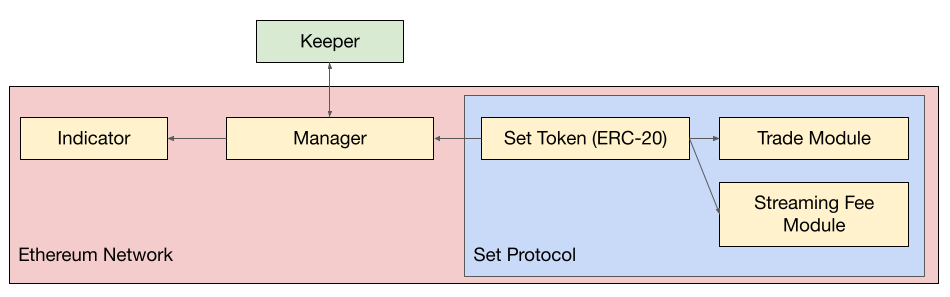
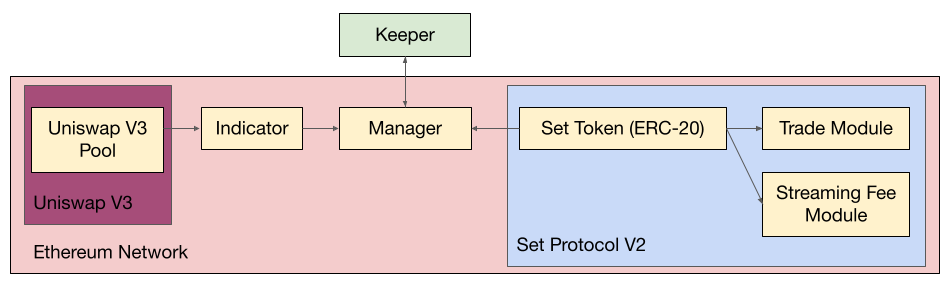
add univ3 oracle to diagram, edit getter function names

Changed region(s): [[0.0, 0.0312, 1.0, 0.9688], [0.0, 0.8125, 0.2139, 0.9062]]

diff --git a/README.md b/README.md
@@ -1,6 +1,6 @@
 # Multiple Moving Average Set Token
 
-Utilize [Set Protocol V2](https://docs.tokensets.com/) and [Uniswap V3 oracles](https://docs.uniswap.org/protocol/concepts/V3-overview/oracle) to tokenize a smart contract managed multiple moving average crossover trading strategy.
+Tokenize a smart contract managed multiple moving average crossover trading strategy with [Set Protocol V2](https://docs.tokensets.com/) and [Uniswap V3 oracles](https://docs.uniswap.org/protocol/concepts/V3-overview/oracle). 
 
 ## Installing Dependencies
 
@@ -28,11 +28,13 @@ npm install @uniswap/v3-core
 
 ![](diagrams/indicatorTradingArchitecture.png)
 
+The `Indicator` contract utilizes a `Uniswap V3 Pool` as an on-chain oracle. 
+
 The `Manager` contract has two key functions for the `Keeper`
-- `getBinaryIndicatorIsChanged()`, which can be called for free and checks if the `Indicator` signal has changed since the last rebalance
+- `getIndicatorIsChanged()`, which can be called for free and checks if the `Indicator` signal has changed since the last rebalance
 - `rebalance()`, which can only be called by the `Keeper` and utilizes the `Trade Module` to change the allocation of the `Set Token`
 
-The `Keeper` can be set to periodically call `getBinaryIndicatorIsChanged()` for free, and subsequently call `rebalance()` if the indicator signal has changed. 
+The `Keeper` can be set to periodically call `getIndicatorIsChanged()` for free, and subsequently call `rebalance()` if the indicator signal has changed. 
 
 ### Multiple Moving Average Crossover Indicator
 
